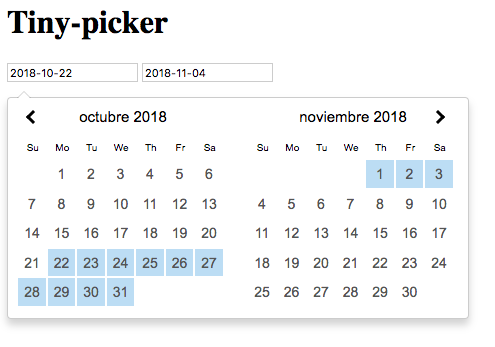
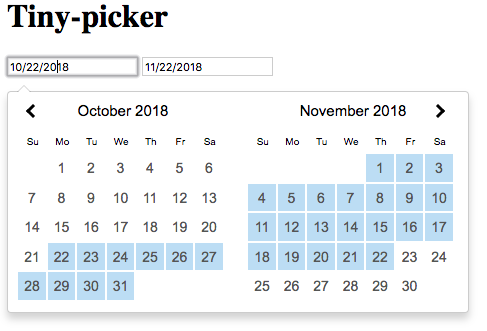
RB: Fix end date days for slected

diff --git a/tinypicker.css b/tinypicker.css
@@ -9,6 +9,7 @@
     box-shadow: 0 6px 12px rgba(0,0,0,0.175);
     color: black;
     font-family: Arial, Helvetica, sans-serif;
+
 }
 
 .cal:before {
@@ -38,7 +39,7 @@
     font-size: 15px;
     text-align: center;
     font-weight: 500;
-    margin: 10px;
+    margin: 15px 0 5px 0;
 }
 
 .nav {
@@ -46,13 +47,13 @@
 }
 
 .dName {
-    display: block;
-    height: 25px;
-    line-height: 25px;
     text-align: center;
-    font-style: normal;
     float: left;
     width: 29.5px;
+    color: #bbb;
+    height: 30px;
+    line-height: 30px;
+    font-size: 12px;
 }
 
 .month {
@@ -71,6 +72,7 @@
     height: 28px;
     line-height: 28px;
     color: #555;
+    cursor: pointer;
     border-right: 1.5px solid white;
     border-bottom: 1.5px solid white;
     font-size: 14px;
@@ -88,9 +90,8 @@
 
 .disabled {
     opacity: 0.7;
-    text-decoration: line-through;
-    cursor: not-allowed;
     color: #888;
+    cursor: default;
 }
 
 .right:before, .left:before {
@@ -100,6 +101,7 @@
     display: inline-block;
     height: 7px;
     width: 7px;
+    cursor: pointer;
 }
 
 .right:before {
@@ -113,11 +115,11 @@
 .right {
     position: absolute;
     right: 25px;
-    top: 14px;
+    top: 18px;
 }
 
 .left {
     position: absolute;
     left: 20px;
-    top: 14px;
+    top: 18px;
 }

diff --git a/index.js b/index.js
@@ -4,7 +4,6 @@
  * Fix state if user enters dates then deletes end date, remove shading from "selected dates"
  * Properly highlight date range when hovering
  * If window size small, only show one month
- * allow overrides to work
  *
  */
 
@@ -17,7 +16,6 @@ function TinyPicker(settings) {
         local: settings.local || 'en-US',
         selectToday: settings.selectToday || false,
         monthsToShow: settings.monthsToShow || 2,
-        weekEnd: settings.weekEnd || false,
         days: settings.days || ['S', 'M', 'T', 'W', 'T', 'F', 'S'],
         preChoose: settings.preChoose || 2,
         firstBox: settings.firstBox || getFirstElementByClass('TinyPicker'),
@@ -193,7 +191,6 @@ function TinyPicker(settings) {
             if(isDateTodayOrFuture(startDate, endDate)){
                 endDate = date;
             }
-            lastBox.focus();
         } else {
             endDate = date;
             removeCalendar(calendarClassName);

diff --git a/docs/index.html b/docs/index.html
@@ -7,8 +7,8 @@
 </head>
 <body>
     <h1>Tiny-picker</h1>
-    <input type="text" class="TinyPicker" id="startDate" value="2018-10-22">
-    <input type="text" class="TinyPicker" value="2018-11-04">
+    <input type="text" class="TinyPicker" id="startDate" value="10-22-2018">
+    <input type="text" class="TinyPicker" value="11-22-2018">
     <script src="../index.js"></script>
     <script>
         new TinyPicker({
